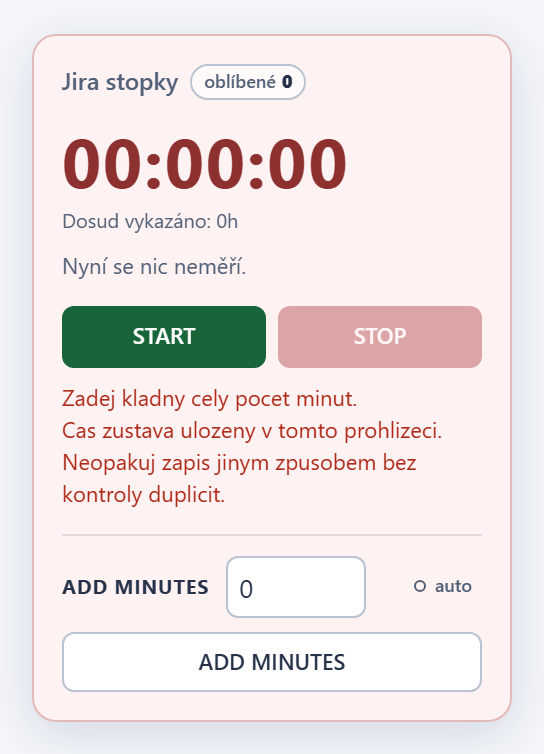
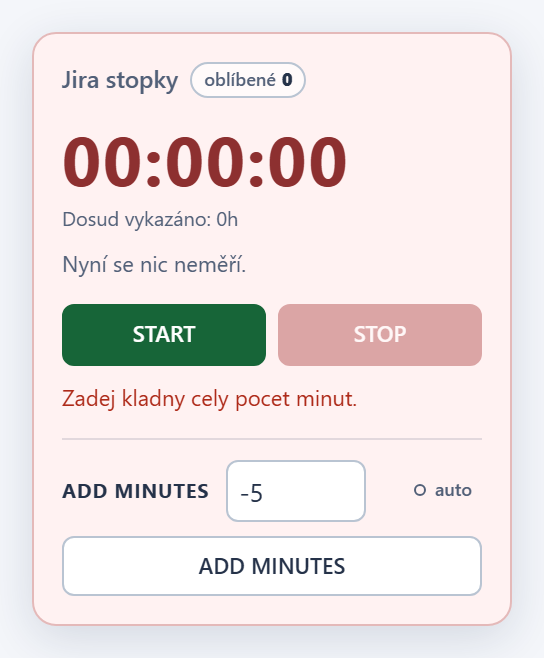
fix: treat 0 or blank minutes as a no-op with a toast (1.18.1)
Closes #28

diff --git a/jira-workspace-timer.user.js b/jira-workspace-timer.user.js
@@ -1,7 +1,7 @@
 // ==UserScript==
 // @name         Jira Local Workspace - Worklog timer
 // @namespace    alza.jira-direct-timer
-// @version      1.18.0
+// @version      1.18.1
 // @updateURL    https://raw.githubusercontent.com/bunnydad02/jira-direct-timer/main/jira-workspace-timer.user.js
 // @downloadURL  https://raw.githubusercontent.com/bunnydad02/jira-direct-timer/main/jira-workspace-timer.user.js
 // @description  Persistent stopwatch that saves directly to Jira and hides the legacy Clockify panel.
@@ -19,7 +19,7 @@
     const FAVORITES_KEY = 'jira-direct-timer-favorites-v1';
     const FAVORITES_LIMIT = 10;
     const ISSUE_PATTERN = /^[A-Z][A-Z0-9_]*-\d+$/;
-    const VERSION = '1.18.0';
+    const VERSION = '1.18.1';
     const panel = document.createElement('section');
     panel.id = 'jira-direct-timer';
     const styles = document.createElement('style');
@@ -129,6 +129,8 @@
         #jira-direct-timer [data-toast] strong {display:flex;align-items:center;gap:7px;margin-bottom:8px;color:#23734a;font-size:12px;font-weight:600;letter-spacing:0}
         #jira-direct-timer [data-toast] strong::before {content:'';width:7px;height:7px;flex-shrink:0;border-radius:50%;background:currentColor}
         #jira-direct-timer [data-toast="discarded"] strong {color:#8a6150}
+        #jira-direct-timer [data-toast="empty"] strong {color:#526078}
+        #jira-direct-timer [data-toast="empty"] span {display:block;color:#667085}
         #jira-direct-timer [data-toast] a {display:block;color:inherit;text-decoration:none}
         #jira-direct-timer [data-toast] strong + a {display:flex;align-items:baseline;flex-wrap:wrap;gap:4px 12px;margin-bottom:5px;font-variant-numeric:tabular-nums}
         #jira-direct-timer [data-toast-duration] {font-size:20px;font-weight:600;line-height:1.3;letter-spacing:-.4px;white-space:nowrap}
@@ -225,6 +227,7 @@
     let favSearchTimer = null;
     let favEditKey = null;
     let favEditValue = '';
+    let favEditInvalid = false;
     let favFocusEditor = false;
     let favHighlight = null;
     let busy = false;
@@ -339,6 +342,7 @@
                 notification.node.remove();
                 return false;
             }
+            if (!notification.value) return true;
             const title = titleFor(notification.value);
             if (notification.title.textContent !== title) notification.title.textContent = title;
             return true;
@@ -606,7 +610,7 @@
             });
             completed = true;
         } catch (e) {
-            notice = `${e.message}\nCas zustava ulozeny v tomto prohlizeci. Neopakuj zapis jinym zpusobem bez kontroly duplicit.`;
+            notice = e instanceof InputError ? e.message : `${e.message}\nCas zustava ulozeny v tomto prohlizeci. Neopakuj zapis jinym zpusobem bez kontroly duplicit.`;
         } finally {
             busy = false;
             actionDisplay = null;
@@ -663,12 +667,35 @@
         write(value);
         minutes.value = '';
     }
+    class InputError extends Error {}
+    // A number input reports typed text as '' with validity.badInput, so only a truly blank or zero value means "write nothing".
+    function emptyMinutes(raw, badInput) {
+        return !badInput && /^0*$/.test(String(raw).trim());
+    }
+    function showEmptyToast() {
+        const node = document.createElement('div');
+        node.dataset.toast = 'empty';
+        const heading = document.createElement('strong');
+        heading.textContent = 'P\u0159id\u00e1no 0 minut';
+        const details = document.createElement('span');
+        details.textContent = 'Nic se nezapsalo.';
+        node.appendChild(heading);
+        node.appendChild(details);
+        toasts.appendChild(node);
+        notifications.push({node, expiresAt: Date.now() + 5000});
+    }
+    function skipEmptyMinutes(raw, badInput) {
+        if (busy || !emptyMinutes(raw, badInput)) return false;
+        notice = '';
+        showEmptyToast();
+        return true;
+    }
     async function addMinutes(key, raw) {
         const count = Number(raw);
         if (!key) throw new Error('Otevri konkretni ukol Jiry.');
         if (!/^\d+$/.test(raw) || !Number.isSafeInteger(count) || count < 1 ||
             !Number.isSafeInteger(count * 60000) || !Number.isFinite(new Date(Date.now() - count * 60000).getTime())) {
-            throw new Error('Zadej kladny cely pocet minut.');
+            throw new InputError('Zadej kladny cely pocet minut.');
         }
         const old = read();
         if (old && (old.phase === 'pending' || old.manualNext || old.manualEntry)) throw new Error('Nejprve over predchozi zapis.');
@@ -689,10 +716,17 @@
             await saveEntry(entry);
         }
     }
-    manual.onclick = () => act(async () => {
-        await addMinutes(issue(), minutes.value);
-        minutes.value = '';
-    });
+    manual.onclick = () => {
+        if (skipEmptyMinutes(minutes.value, minutes.validity && minutes.validity.badInput)) {
+            minutes.value = '';
+            render();
+            return;
+        }
+        return act(async () => {
+            await addMinutes(issue(), minutes.value);
+            minutes.value = '';
+        });
+    };
     minutes.onkeydown = event => {
         if (event.key === 'Enter') {
             event.preventDefault();
@@ -812,9 +846,10 @@
         if (await act(() => startTimer(key))) closeFavorites(true);
     }
     async function saveFavoriteMinutes(key) {
-        if (await act(() => addMinutes(key, favEditValue))) {
+        if (skipEmptyMinutes(favEditValue, favEditInvalid) || await act(() => addMinutes(key, favEditValue))) {
             favEditKey = null;
             favEditValue = '';
+            favEditInvalid = false;
             render();
         }
     }
@@ -840,12 +875,16 @@
         input.step = '1';
         input.value = favEditValue;
         input.setAttribute('aria-label', `Minuty pro ${key}`);
-        input.oninput = () => { favEditValue = input.value; };
+        input.oninput = () => {
+            favEditValue = input.value;
+            favEditInvalid = !!(input.validity && input.validity.badInput);
+        };
         for (const count of ['15', '30', '60']) {
             const button = favoriteNode('button', 'favQuick', count);
             button.setAttribute('aria-label', `Vyplnit ${count} minut`);
             button.onclick = () => {
                 favEditValue = count;
+                favEditInvalid = false;
                 input.value = count;
                 input.focus();
             };
@@ -890,6 +929,7 @@
         add.onclick = () => {
             favEditKey = favEditKey === item.issue ? null : item.issue;
             favEditValue = '';
+            favEditInvalid = false;
             favFocusEditor = !!favEditKey;
             render();
         };

diff --git a/tests/scenarios.js b/tests/scenarios.js
@@ -264,6 +264,34 @@
             equal(p.posts()[1].body.timeSpentSeconds, 1200);
             equal(p.node('worklog-total').textContent, 'Dosud vykaz\u00e1no: 0,8h');
         }},
+        {title: 'ADD MINUTES i +min: 0 nebo prazdne pole nic nezapise a ukaze toast', async run(p) {
+            const state = running(p, 'DEMO-102');
+            await p.reset({state, favorites: [{issue: 'OPS-12', title: 'Porady a komunikace'}]});
+            for (const value of ['0', '']) {
+                await p.manual(value);
+                equal(p.posts().length, 0, `${JSON.stringify(value)} must not write`);
+                equal(p.state(), state, 'running timer unchanged');
+                equal(p.node('error').textContent, '');
+                equal(p.node('minutes').value, '');
+                includes(p.node('toast="empty"').textContent, 'Nic se nezapsalo');
+            }
+            await p.click('fav-open');
+            for (const value of ['0', '']) {
+                p.node('fav-list').querySelector('[data-fav-minutes]').click();
+                p.node('fav-minutes-input').value = value;
+                p.node('fav-minutes-input').dispatchEvent(new Event('input'));
+                p.node('fav-minutes-save').click();
+                await p.idle();
+                equal(p.posts().length, 0);
+                equal(p.node('fav-editor'), null, 'zero minutes close the editor');
+                equal(p.node('error').textContent, '');
+            }
+            equal(p.node('toasts').querySelectorAll('[data-toast="empty"]').length, 4);
+            equal(p.state(), state);
+            await p.manual('-5');
+            includes(p.node('error').textContent, 'kladny');
+            equal(p.node('error').textContent.includes('duplicit'), false, 'validation omits the duplicate warning');
+        }},
         {title: 'AUTO: nove issue vykazuje jen po zapnuti a zachova stopky', async run(p) {
             await p.reset();
             equal(p.node('auto-open').dataset.state, 'off');
@@ -326,9 +354,10 @@
             await p.reset();
             await p.click('start');
             const before = p.state();
-            for (const value of ['', '0', '-1', '1.5', '9999999999999999999']) {
+            for (const value of ['-1', '1.5', '9999999999999999999']) {
                 await p.manual(value);
                 includes(p.node('error').textContent, 'kladny');
+                equal(p.node('error').textContent.includes('duplicit'), false);
                 equal(p.state(), before);
                 equal(p.posts().length, 0);
                 equal(p.node('toast'), null);

diff --git a/HANDOFF.md b/HANDOFF.md
@@ -32,6 +32,12 @@ for compatibility with installed copies and saved timer state.
   issue, ending at submission time. Enter submits as well as the button.
   Independent manual entry does not change a running timer; intervals can
   overlap, so users must avoid recording the same time twice.
+  `0` or a blank field (also in favorites `+min`) is a deliberate no-op
+  (1.18.1): no lock, no POST, no panel error, unchanged timer; show the
+  `data-toast="empty"` toast, clear the field and close the `+min` editor.
+  A number input reports typed text as blank with `validity.badInput`; that
+  stays a validation error. Validation errors (`InputError`) omit the
+  duplicate-write warning appended to real write failures.
 - `AUTO` is disabled by default and starts at 10 minutes. When enabled, observe
   successful Jira REST issue creation responses from `fetch` and
   `XMLHttpRequest` whose resolved URL has the Jira page's own origin, then
@@ -166,7 +172,7 @@ must exist. Publishing rewrites these links to the release tag
 (`raw.githubusercontent.com/<owner>/<repo>/v<version>/...`), so each Release
 permanently shows that version's look.
 
-The current userscript metadata and in-panel version are `1.18.0`. On each
+The current userscript metadata and in-panel version are `1.18.1`. On each
 release, keep `@version` and `VERSION` synchronized and retain both GitHub
 update URLs. Tampermonkey updates only after a higher version is published to
 the public `main` branch; a local commit alone does not publish an update.

diff --git a/releases/v1.18.1.md b/releases/v1.18.1.md
@@ -1,0 +1,32 @@
+# Jira Local Workspace - Worklog timer v1.18.1
+
+## Changes
+
+- `0` nebo prazdne pole v ADD MINUTES i v `+min` u Oblibenych uz neni
+  chyba: nic se nezapise do Jiry, bezici stopky zustanou beze zmeny a
+  zobrazi se kratky toast "Pridano 0 minut - Nic se nezapsalo". Pole se
+  vycisti a editor `+min` se zavre.
+- Opravdu neplatne hodnoty (zaporne, desetinne, text) dal hlasi
+  "Zadej kladny cely pocet minut.", ale uz bez varovani o duplicitnich
+  zapisech, ktere patri jen k chybam pri ukladani.
+
+## Screenshots
+
+![ADD MINUTES: 0 minut nic nezapise](../docs/screenshots/manual-zero.png)
+![ADD MINUTES: neplatna hodnota](../docs/screenshots/manual-invalid.png)
+
+## Installation / update
+
+Tampermonkey nacita aktualizace z vetve `main`. Po aktualizaci na 1.18.1
+obnov stranku Jiry. Neinstaluj druhou kopii skriptu a nemaz data webu;
+stav mereni, nastaveni AUTO i oblibene zustavaji zachovany.
+
+## Verification
+
+`npm test`: uspesne kontroly syntaxe, Node regrese, kontroly vydani,
+bezpecnostni audit, vsechny Chromium regrese s lokalnimi mocky a
+regenerace screenshotu. Nove testy overuji `0`, `00` a prazdne pole v
+ADD MINUTES (tlacitko i Enter) i v `+min` u Oblibenych: zadny POST, zadna
+chyba, toast, vycistene pole, zavreny editor a nezmenene bezici stopky.
+Text v ciselnem poli, zaporne, desetinne a prilis velke hodnoty dal hlasi
+chybu bez varovani o duplicitach.

diff --git a/docs/screenshots/README.md b/docs/screenshots/README.md
@@ -31,6 +31,7 @@ Zmeny vzhledu ukazuje diff PR, starsi podoby historie souboru a Git tagy vydani.
 | --- | --- |
 | ADD MINUTES: rucni zapis 15 minut (`manual-saved`) | ![ADD MINUTES: rucni zapis 15 minut](./manual-saved.png) |
 | ADD MINUTES: neplatna hodnota (`manual-invalid`) | ![ADD MINUTES: neplatna hodnota](./manual-invalid.png) |
+| ADD MINUTES: 0 minut nic nezapise (`manual-zero`) | ![ADD MINUTES: 0 minut nic nezapise](./manual-zero.png) |
 | AUTO zapnuto: indikator v panelu (`auto-enabled`) | ![AUTO zapnuto: indikator v panelu](./auto-enabled.png) |
 | AUTO: poskozene nastaveni v panelu (`auto-settings-error`) | ![AUTO: poskozene nastaveni v panelu](./auto-settings-error.png) |
 | AUTO: nastaveni automatickeho vykazovani (`auto-settings`) | ![AUTO: nastaveni automatickeho vykazovani](./auto-settings.png) |

diff --git a/README.md b/README.md
@@ -52,6 +52,8 @@ prehled vydanych verzi a jejich zmen.
 - `CANCEL` zahodi pouze dosud neulozene mereni.
 - `ADD MINUTES` zapise kladny pocet celych minut na otevrenem ukolu.
   Potvrdit lze tlacitkem nebo klavesou Enter. Rucni zapis nemeni bezici casovac.
+  `0` nebo prazdne pole (i u `+min` v Oblibenych) nic nezapise a jen ukaze
+  toast "Pridano 0 minut".
 - Otevreny ukol se na strance `/browse/<KLIC>` bere vzdy z adresy; parametr
   `selectedIssue` plati jen na boardu / backlogu.
 - Tlacitko `auto` u `ADD MINUTES` otevre nastaveni automatickeho vykazovani.
